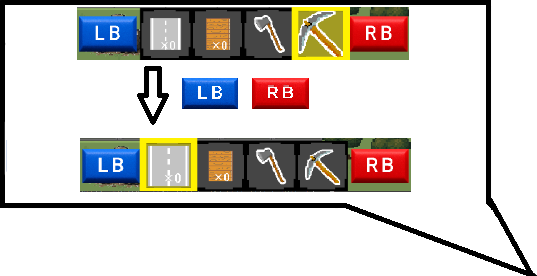
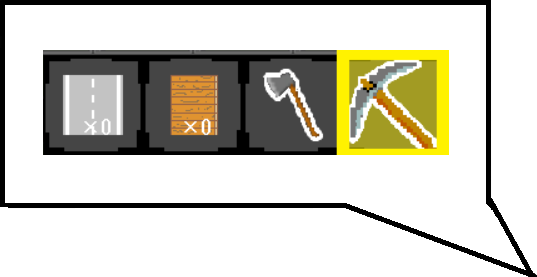
dadada

diff --git a/DxLib_TGS2025/Src/Scene/InGame/InGameScene.cpp b/DxLib_TGS2025/Src/Scene/InGame/InGameScene.cpp
@@ -142,6 +142,12 @@ void InGameResourceInit(void)
 		ingame.tutorial_controol_right = LoadGraph("Resource/images/log4_right.png");
 		ingame.tutorial_controol_up = LoadGraph("Resource/images/log4_up.png");
 		ingame.tutorial_controol_down = LoadGraph("Resource/images/log4_down.png");
+		//アイテム欄のチュートリアルのアニメーション
+		ingame.itemtutorial1 = LoadGraph("Resource/images/itemtutorial1.png");
+		ingame.itemtutorial2 = LoadGraph("Resource/images/itemtutorial2.png");
+		ingame.itemtutorial3 = LoadGraph("Resource/images/itemtutorial3.png");
+		ingame.itemtutorial4 = LoadGraph("Resource/images/itemtutorial4.png");
+
 		//BGMの初期化
 		PlayBgm();
 		break;
@@ -690,8 +696,8 @@ int tutorial_log;
 //チュートリアルのログ
 void TutorialDraw(const Goal* goal, const GameOver* gameover)
 {
-	if (ingame.stage_num == eOne&&ingame.start == true&&
-		goal->print_flag == false && gameover->image_flag == false&&ingame.goalmenu_flag==false)
+	if (ingame.stage_num == eOne && ingame.start == true &&
+		goal->print_flag == false && gameover->image_flag == false && ingame.goalmenu_flag == false)
 	{
 		if (ingame.mitibiki_flag == true)
 		{
@@ -705,6 +711,10 @@ void TutorialDraw(const Goal* goal, const GameOver* gameover)
 			DrawRotaGraphF(875.0f, 160.0f, 0.75, 0.0, ingame.tutoriallog_select, TRUE);
 		}
 		TutorialCursor();
+		if (ingame.tutorial_log_num == 6)
+		{
+			ItemTutorial();
+		}
 	}
 }
 
@@ -731,7 +741,7 @@ void TutorialUpdate(void)
 		}
 
 		//チュートリアルのページをめくる
-		if (ingame.tutorial_log_num < 18&& ingame.start == true)
+		if (ingame.tutorial_log_num < 18 && ingame.start == true)
 		{
 			//Aボタンで進める
 			if (pad_input->GetButtonInputState(XINPUT_BUTTON_A) == ePadInputState::ePress &&
@@ -756,19 +766,27 @@ void TutorialUpdate(void)
 			ingame.mitibiki_flag == false)
 		{
 			ingame.mitibiki_flag = true;
-		}
-		else if (pad_input->GetButtonInputState(XINPUT_BUTTON_Y) == ePadInputState::ePress &&
+		}*/
+		if (ingame.tutorial_log_num == 4)
+		{
+		if (pad_input->GetButtonInputState(XINPUT_BUTTON_A) == ePadInputState::ePress &&
 			ingame.mitibiki_flag == true)
 		{
 			ingame.mitibiki_flag = false;
-		}*/
+		}
+		}
 	}
 }
 
 void TutorialAchievements(const Cursor* cursor, const Rock* rock, const Wood* wood, const Tool* tool,
 	const CreateStage* stage)
 {
+	DrawFormatString(150, 150, GetColor(255, 255, 255), "%d %d %d", stage->array[7][4], ingame.tutorial_achievements);
 	PadInputManager* pad_input = PadInputManager::GetInstance();
+	if (stage->array[7][4] == 4)
+	{
+		ingame.mitibiki_flag = true;
+	}
 	switch (ingame.tutorial_achievements)
 	{
 	case 1:
@@ -776,21 +794,20 @@ void TutorialAchievements(const Cursor* cursor, const Rock* rock, const Wood* wo
 		{
 			ingame.mitibiki_flag = true;
 		}
-		else /*if (ingame.tutorial_log_num == 4)*/
+		else if (ingame.tutorial_log_num == 4)
 		{
-			ingame.mitibiki_flag = false;
 			if (cursor->array_x == 5)
 			{
 				animetion_num++;
-				if (animetion_num>30)
+				if (animetion_num > 30)
 				{
 					ingame.tutorial_log_num++;
 					ingame.tutorial_achievements++;
-					animetion_num=0;
+					animetion_num = 0;
 					break;
 
 				}
-				
+
 			}
 		}
 		break;
@@ -801,7 +818,6 @@ void TutorialAchievements(const Cursor* cursor, const Rock* rock, const Wood* wo
 		}
 		else
 		{
-			ingame.mitibiki_flag = false;
 			if (rock->item_num > 0)
 			{
 				animetion_num++;
@@ -816,23 +832,15 @@ void TutorialAchievements(const Cursor* cursor, const Rock* rock, const Wood* wo
 		}
 		break;
 	case 3:
-		if (ingame.tutorial_log_num < 6)
+		if (tool->item_number == eRoad)
 		{
-			ingame.mitibiki_flag = true;
-		}
-		else
-		{
-			ingame.mitibiki_flag = false;
-			if (tool->item_number == eRoad)
+			animetion_num++;
+			if (animetion_num > 30)
 			{
-				animetion_num++;
-				if (animetion_num > 30)
-				{
-					ingame.tutorial_log_num++;
-					ingame.tutorial_achievements++;
-					animetion_num = 0;
-					break;
-				}
+				ingame.tutorial_log_num++;
+				ingame.tutorial_achievements++;
+				animetion_num = 0;
+				break;
 			}
 		}
 		break;
@@ -850,7 +858,7 @@ void TutorialAchievements(const Cursor* cursor, const Rock* rock, const Wood* wo
 		}
 		break;
 	case 5:
-		if (stage->array[7][4] == 4)
+		if (stage->array[6][4] == 4)
 		{
 			animetion_num++;
 			if (animetion_num > 30)
@@ -863,9 +871,8 @@ void TutorialAchievements(const Cursor* cursor, const Rock* rock, const Wood* wo
 		}
 		break;
 	case 6:
-		if (tool->wood_road_num==1)
+		if (tool->wood_road_num == 1)
 		{
-
 			animetion_num++;
 			if (animetion_num > 30)
 			{
@@ -877,18 +884,20 @@ void TutorialAchievements(const Cursor* cursor, const Rock* rock, const Wood* wo
 		}
 		break;
 	case 7:
-		if (stage->array[8][4] == 5)
+		if (stage->array[7][4] == 4)
 		{
-				ingame.tutorial_log_num++;
-				ingame.tutorial_achievements++;
-				break;
+			ingame.mitibiki_flag = true;
+			ingame.tutorial_log_num++;
+			ingame.tutorial_achievements++;
+			break;
 		}
+		break;
 	case 8:
-		if (animetion_num < 31)
+		if (animetion_num < 32)
 		{
 			animetion_num++;
 		}
-		if (animetion_num > 30)
+		else if (animetion_num > 30)
 		{
 			if (stage->array[8][4] == 5)
 			{
@@ -905,10 +914,10 @@ void TutorialAchievements(const Cursor* cursor, const Rock* rock, const Wood* wo
 		break;
 	}
 }
-void TutorialCursor(void) 
+void TutorialCursor(void)
 {
 	PadInputManager* pad_input = PadInputManager::GetInstance();
-	if (ingame.tutorial_log_num == 4 && ingame.menu_flag==false )
+	if (ingame.tutorial_log_num == 4 && ingame.menu_flag == false)
 	{
 		if (pad_input->GetButtonInputState(XINPUT_BUTTON_DPAD_LEFT) == ePadInputState::eHold)
 		{
@@ -930,5 +939,28 @@ void TutorialCursor(void)
 }
 void ItemTutorial(void)
 {
+	ingame.itemtutorial_num++;
+	if (ingame.itemtutorial_num > 300)
+	{
+		ingame.itemtutorial_num = 1;
+	}
+	else if (ingame.itemtutorial_num > 150)
+	{
+		DrawRotaGraphF(875.0f, 235.0f, 1.0, 0.0, ingame.itemtutorial4, TRUE);
+	}
+	else if (ingame.itemtutorial_num > 100)
+	{
+		DrawRotaGraphF(875.0f, 235.0f, 1.0, 0.0, ingame.itemtutorial3, TRUE);
+	}
+	else if (ingame.itemtutorial_num > 50)
+	{
+		DrawRotaGraphF(875.0f, 235.0f, 1.0, 0.0, ingame.itemtutorial2, TRUE);
+	}
+	else if (ingame.itemtutorial_num > 1)
+	{
+		DrawRotaGraphF(875.0f, 235.0f, 1.0, 0.0, ingame.itemtutorial1, TRUE);
+	}
+
 
 }
+

diff --git a/DxLib_TGS2025/Src/Scene/InGame/InGameScene.h b/DxLib_TGS2025/Src/Scene/InGame/InGameScene.h
@@ -61,6 +61,9 @@ struct InGame
 	int itemtutorial2;
 	int itemtutorial3;
 	int itemtutorial4;
+
+	int itemtutorial_num = 1;
+
 };
 
 struct InGame_Sound
